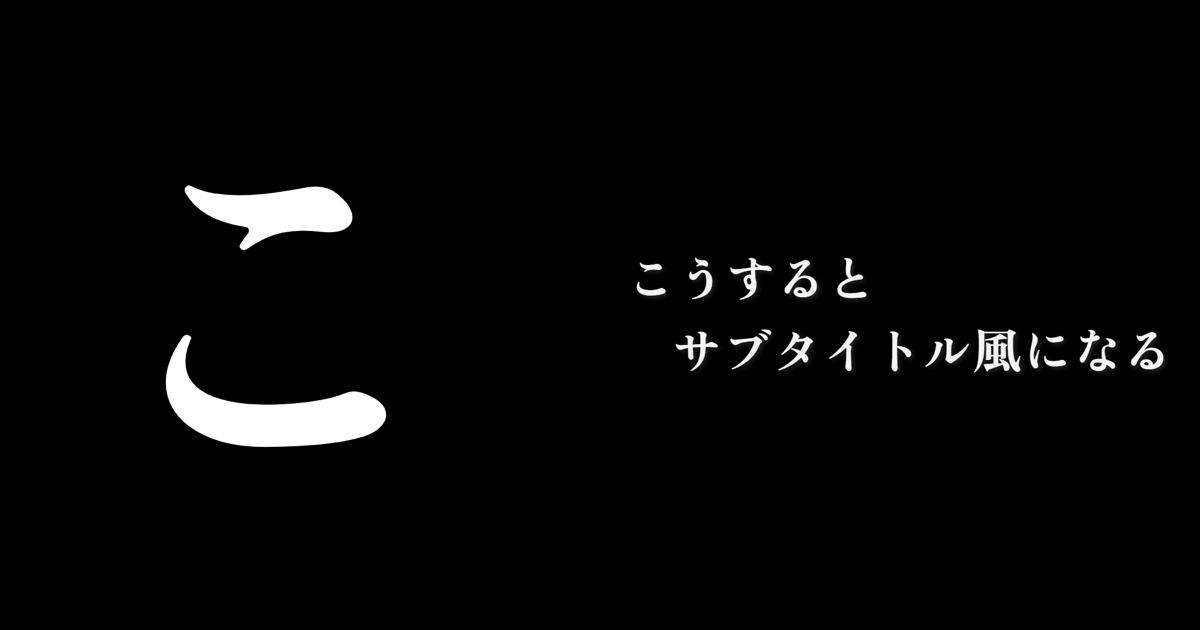
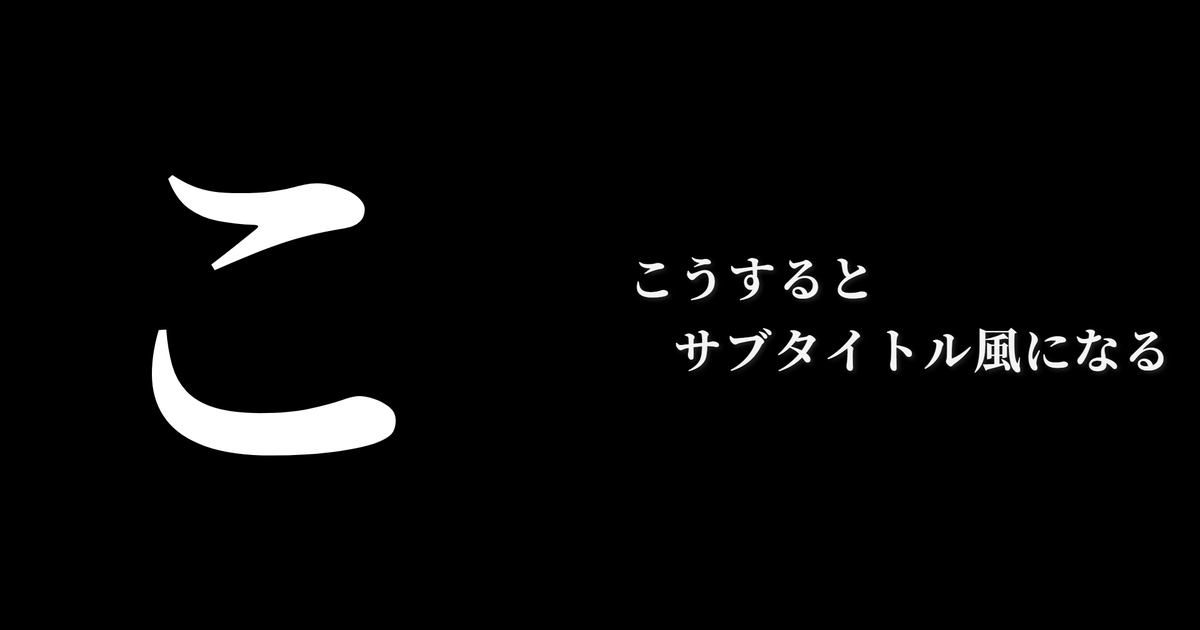
通しの確認で見つけた不具合を直し、og.png をノーマルの字体で作り直す
- 字体や文を変えた直後に押すと前の画像が渡る不具合を直す
- 連打で二重に共有・保存・X をひらく不具合を直す
- 絵文字を見た目の 1 文字ごとに分け、本文を切る所で壊さない
- 古い保存の値を確かめてから読み込む
- 20 枚以上のときは下の案内も警告にする
- 共有文で URL を最後に置かない（X の投稿画面でカードが消えにくくする）
- og.png を Noto Serif JP 700 で作り直し、URL に ?v を付け、OGP の項目を足す

Claude-Session: https://claude.ai/code/session_014p2nbnsG2cuTAqrE9aagyF

diff --git a/index.html b/index.html
@@ -10,12 +10,20 @@
 <meta property="og:type" content="website">
 <meta property="og:title" content="サブタイトル風 画像メーカー">
 <meta property="og:description" content="文を打つだけで、1文字ずつの黒い画像と、最後のまとめ画像ができます。X にそのまま送れます。">
-<meta property="og:image" content="https://postingjoging-afk.github.io/subtitle-maker/og.png">
+<meta property="og:site_name" content="サブタイトル風 画像メーカー">
+<meta property="og:locale" content="ja_JP">
+<meta property="og:image" content="https://postingjoging-afk.github.io/subtitle-maker/og.png?v=20261114">
+<meta property="og:image:type" content="image/png">
+<meta property="og:image:width" content="1200">
+<meta property="og:image:height" content="630">
+<meta property="og:image:alt" content="黒い画面に大きな「こ」の字と、「こうすると サブタイトル風になる」の文">
 <meta property="og:url" content="https://postingjoging-afk.github.io/subtitle-maker/">
 <meta name="twitter:card" content="summary_large_image">
 <meta name="twitter:title" content="サブタイトル風 画像メーカー">
 <meta name="twitter:description" content="文を打つだけで、1文字ずつの黒い画像と、最後のまとめ画像ができます。">
-<meta name="twitter:image" content="https://postingjoging-afk.github.io/subtitle-maker/og.png">
+<meta name="twitter:image" content="https://postingjoging-afk.github.io/subtitle-maker/og.png?v=20261114">
+<meta name="twitter:image:alt" content="黒い画面に大きな「こ」の字と、「こうすると サブタイトル風になる」の文">
+<link rel="canonical" href="https://postingjoging-afk.github.io/subtitle-maker/">
 <link rel="preconnect" href="https://fonts.googleapis.com">
 <link rel="preconnect" href="https://fonts.gstatic.com" crossorigin>
 <style>
@@ -88,7 +96,6 @@ input[type=range]{width:100%;height:32px;accent-color:#fff}
 .bar .main-row{display:flex;gap:8px}
 .bar .main-row .btn{flex:1;font-size:15px;padding:0 6px;white-space:nowrap}
 .bar .main-row .btn.main{flex:1.5;font-size:16px}
-.bar .main-row[hidden],.bar .note[hidden]{display:none}
 .bar .main-row[hidden],.bar .note[hidden]{display:none}
 .bar .main-row.two .btn{flex:1;font-size:15px;min-height:52px;display:inline-flex;align-items:center;justify-content:center;gap:8px}
 .bar .main-row.two .num{display:inline-flex;align-items:center;justify-content:center;width:22px;height:22px;border-radius:50%;background:#000;color:#fff;font-size:13px;font-weight:800}
@@ -163,7 +170,7 @@ footer p{margin:4px 0}
   <footer>
     <p>打った文字はサーバーに送りません。画像はすべてこの端末の中で作ります（字体だけ Google Fonts から読み込みます）。</p>
     <p>字体は Google Fonts（Noto Serif JP・Noto Sans JP ほか、いずれも SIL Open Font License）と、手書き風の「みかちゃん」（作者: みかちゃん。再配布と商用利用が許されており、販売だけが禁止。<a href="licenses/Mikachan-LICENSE.txt" style="color:inherit">利用条件の写し</a>）を使っています。</p>
-    <p>「ノーマル」の字体は、1文字もまとめも Noto Serif JP（作者: Google）です。どちらも SIL Open Font License 1.1 のもとで使っています。ライセンスの全文: <a href="licenses/ZenOldMincho-OFL.txt" style="color:inherit">Zen Old Mincho</a></p>
+    <p>「ノーマル」の字体は、1文字もまとめも Noto Serif JP（作者: Google）です。ライセンスの全文の例: <a href="licenses/ZenOldMincho-OFL.txt" style="color:inherit">Zen Old Mincho</a></p>
     <p>アニメのサブタイトルの見せ方をまねた「サブタイトル風」の画像を作る、非公式のツールです。</p>
   </footer>
 </div>
@@ -225,13 +232,21 @@ function loadCss(fw,text,force){
 }
 var LINES=[['auto','自動'],['1','1行'],['2','2行'],['3','3行']];
 var st={preset:'std',lines:'auto',indent:true,sc:60,ss:100,sel:'all'};
-try{var sv=JSON.parse(localStorage.getItem('stm')||'{}');['preset','lines','indent','sc','ss','imgOnly'].forEach(function(k){if(k in sv)st[k]=sv[k]})}catch(e){}
+try{var sv=JSON.parse(localStorage.getItem('stm')||'{}')||{};
+  if(PRESETS.some(function(p){return p.id===sv.preset}))st.preset=sv.preset;
+  if(LINES.some(function(l){return l[0]===sv.lines}))st.lines=sv.lines;
+  if(typeof sv.indent==='boolean')st.indent=sv.indent;
+  if(typeof sv.imgOnly==='boolean')st.imgOnly=sv.imgOnly;
+  if(+sv.sc>=40&&+sv.sc<=85)st.sc=Math.round(+sv.sc);
+  if(+sv.ss>=60&&+sv.ss<=130)st.ss=Math.round(+sv.ss);
+}catch(e){}
 function save(){try{localStorage.setItem('stm',JSON.stringify(st))}catch(e){}}
 var $=function(id){return document.getElementById(id)};
 var txt=$('txt'),stage=$('stage'),sctx=stage.getContext('2d'),strip=$('strip');
 
 var SKIP=/[\s、。，．,.!！?？「」『』（）()\[\]【】・…〜~"'“”‘’:：;；]/;
-function chars(s){return Array.from(s)}
+var SEG=(typeof Intl!=='undefined'&&Intl.Segmenter)?new Intl.Segmenter('ja',{granularity:'grapheme'}):null;
+function chars(s){return SEG?Array.from(SEG.segment(s),function(x){return x.segment}):Array.from(s)}
 function cards(){
   var t=txt.value; var list=chars(t).filter(function(c){return !SKIP.test(c)}).map(function(c){return{type:'char',ch:c}});
   if(t.trim())list.push({type:'sum'});
@@ -306,9 +321,10 @@ function setStatus(msg,err,retry){
 /* 更新 */
 var cur=0,cardList=[],blobs=[],blobTok=0,blobTimer=0,playing=0;
 var rafId=0;
-function update(){cancelAnimationFrame(rafId);rafId=requestAnimationFrame(doUpdate)}
+function dropBlobs(){clearTimeout(blobTimer);blobs=[];++blobTok}
+function update(){dropBlobs();cancelAnimationFrame(rafId);rafId=requestAnimationFrame(doUpdate);setButtons()}
 async function doUpdate(){
-  var my=++token;stopPlay();
+  var my=++token;stopPlay();dropBlobs();
   cardList=cards();shareIdx=0;updateCount();
   setStatus('字体を読み込み中…');loading=true;setButtons();
   var ok;try{ok=await ensureFonts(retryFonts);retryFonts=false}catch(e){ok=false}
@@ -386,12 +402,16 @@ function waitBlobs(){return new Promise(function(res){(function chk(){if(blobs.l
 
 /* 共有 */
 function shareText(){
-  var t=txt.value.replace(/\s+/g,' ').trim();if(t.length>70)t=t.slice(0,69)+'…';
-  return t+'\n#サブタイトル風 で作った → '+SITE_URL;
+  var t=txt.value.replace(/\s+/g,' ').trim(),a=chars(t);if(a.length>70)t=a.slice(0,69).join('')+'…';
+  /* URL を最後に置かない（X の投稿画面で、URL の直後にカーソルがあるとカードが消えるため） */
+  return t+'\n作ったサイト → '+SITE_URL+'\n#サブタイトル風';
 }
 function toast(m,err){var t=$('toast');t.textContent=m;t.className='toast show'+(err?' err':'');clearTimeout(toast.h);toast.h=setTimeout(function(){t.className='toast'},4200)}
 var PER=4,shareIdx=0;
 function showAfter(){$('after').hidden=false}
+var busy=false,lastOpen=0;
+function lock(fn){return async function(){if(busy)return;busy=true;try{await fn.apply(this,arguments)}finally{busy=false}}}
+function openX(){var now=Date.now();if(now-lastOpen<1500)return false;lastOpen=now;window.open('https://x.com/intent/post?text='+encodeURIComponent(shareText()),'_blank','noopener');return true}
 function canShareData(d){try{return !!(navigator.canShare&&navigator.share&&navigator.canShare(d))}catch(e){return false}}
 function chunksOf(list){var o=[];for(var i=0;i<list.length;i+=PER)o.push(list.slice(i,i+PER));return o}
 function toFiles(list){return list.map(function(x){return new File([x.blob],x.name,{type:'image/png'})})}
@@ -411,13 +431,14 @@ function setButtons(){
   $('shareBtn').classList.toggle('main',can);$('saveBtn').classList.toggle('main',!can);
   var total=st.sel==='sum'?1:cardList.length,multi=total>PER;
   $('multi').hidden=!multi;$('multiHint').hidden=!multi;$('single').hidden=multi;
+  var mh=$('multiHint'),over=total>=20;mh.textContent=over?'20 枚以上は 1 つの投稿に載せられません。文字をへらすか、「まとめだけ」にしてください。':'1 で共有シートの「画像を保存」を押す。2 の X で写真ボタンから、1 枚目から順に選ぶ。';mh.style.color=over?'#ffd2a8':'';
   $('seg2').style.display=multi?'none':'contents';
   $('step1').disabled=!ready;$('step2').disabled=!txt.value.trim();
   $('step1T').textContent='写真に保存（'+total+'枚）';
   $('imgOnly').setAttribute('aria-pressed',!!st.imgOnly);
   $('resetShare').style.display=shareIdx>0?'':'none';
 }
-$('shareBtn').onclick=async function(){
+$('shareBtn').onclick=lock(async function(){
   if(!blobsReady()){toast('画像を準備しています。もう一度押してください。');await waitBlobs();setButtons();return}
   var ch=chunksOf(selected()),n=ch.length;if(shareIdx>=n)shareIdx=0;
   var idx=shareIdx,files=toFiles(ch[idx]),d=dataFor(files,idx,!st.imgOnly),textDropped=false;
@@ -429,22 +450,22 @@ $('shareBtn').onclick=async function(){
     shareIdx=idx+1;setButtons();
     toast((idx+1)+'/'+n+' 回目を共有しました。次は「X に共有（'+(shareIdx+1)+'/'+n+'）」を押してください。X では、1 回目の投稿に返信して続きを足します。'+(textDropped?'（この回は本文なしで渡しました）':''));
   }else{shareIdx=0;setButtons();if(n>1)toast('すべて共有しました。');showAfter()}
-};
-$('step1').onclick=async function(){
+});
+$('step1').onclick=lock(async function(){
   if(!blobsReady()){toast('画像を準備しています。もう一度押してください。');await waitBlobs();setButtons();return}
   var files=toFiles(selected()),d={files:files};
-  if(!canShareData(d)){$('saveBtn').click();return}
+  if(!canShareData(d)){await saveFiles();return}
   try{await navigator.share(d)}
-  catch(e){if(e&&e.name==='AbortError')return;toast('共有できませんでした。ふつうの保存に切り替えます。',true);$('saveBtn').click();return}
+  catch(e){if(e&&e.name==='AbortError')return;toast('共有できませんでした。ふつうの保存に切り替えます。',true);await saveFiles();return}
   toast('共有シートで「'+files.length+' 枚の画像を保存」を押しましたか。次は 2 の「X をひらく」です。');
-};
+});
 $('step2').onclick=function(){
-  window.open('https://x.com/intent/post?text='+encodeURIComponent(shareText()),'_blank','noopener');
+  if(!openX())return;
   toast('X の写真ボタンから、保存した画像を 1 枚目から順に選んでください。');showAfter();
 };
 $('imgOnly').onclick=function(){st.imgOnly=!st.imgOnly;save();setButtons()};
 $('resetShare').onclick=function(){shareIdx=0;setButtons()};
-$('saveBtn').onclick=async function(){
+async function saveFiles(){
   if(!blobsReady()){toast('画像を準備しています…');await waitBlobs()}
   var list=selected();
   for(var i=0;i<list.length;i++){
@@ -453,9 +474,10 @@ $('saveBtn').onclick=async function(){
     await new Promise(function(r){setTimeout(r,300)});
   }
   toast(list.length+'枚を保存しました。名前の番号の順に X へ載せてください。');showAfter();
-};
+}
+$('saveBtn').onclick=lock(saveFiles);
 $('textBtn').onclick=function(){
-  window.open('https://x.com/intent/post?text='+encodeURIComponent(shareText()),'_blank','noopener');
+  if(!openX())return;
   toast('本文だけを X に送ります。画像は「画像を保存」で保存してから、投稿画面で付けてください。');
 };
 function setSel(v){st.sel=v;shareIdx=0;$('selAll').setAttribute('aria-pressed',v==='all');$('selSum').setAttribute('aria-pressed',v==='sum');setButtons()}
